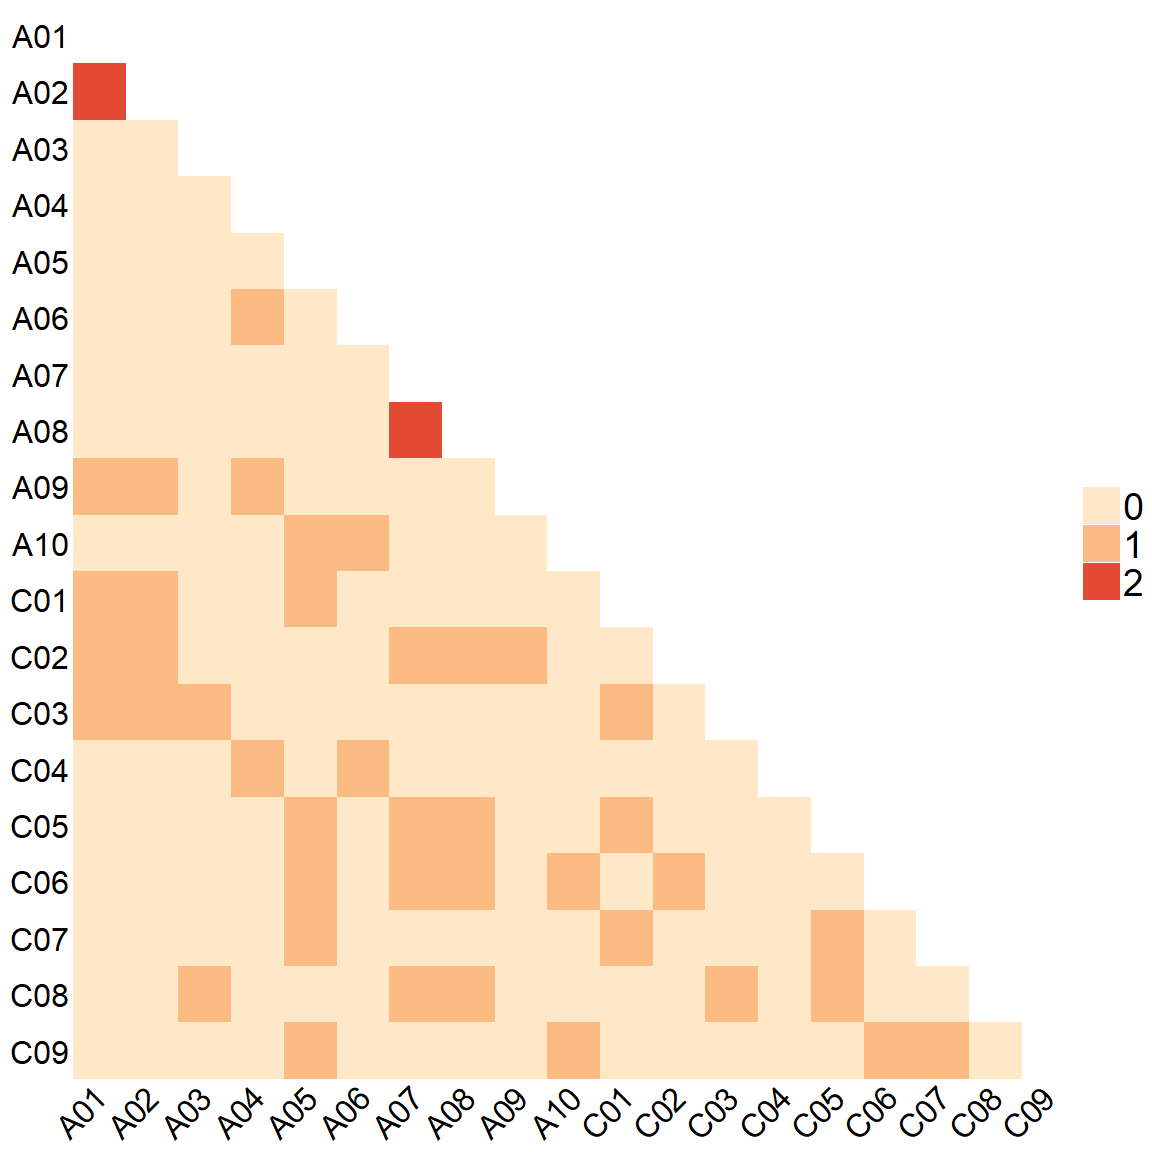
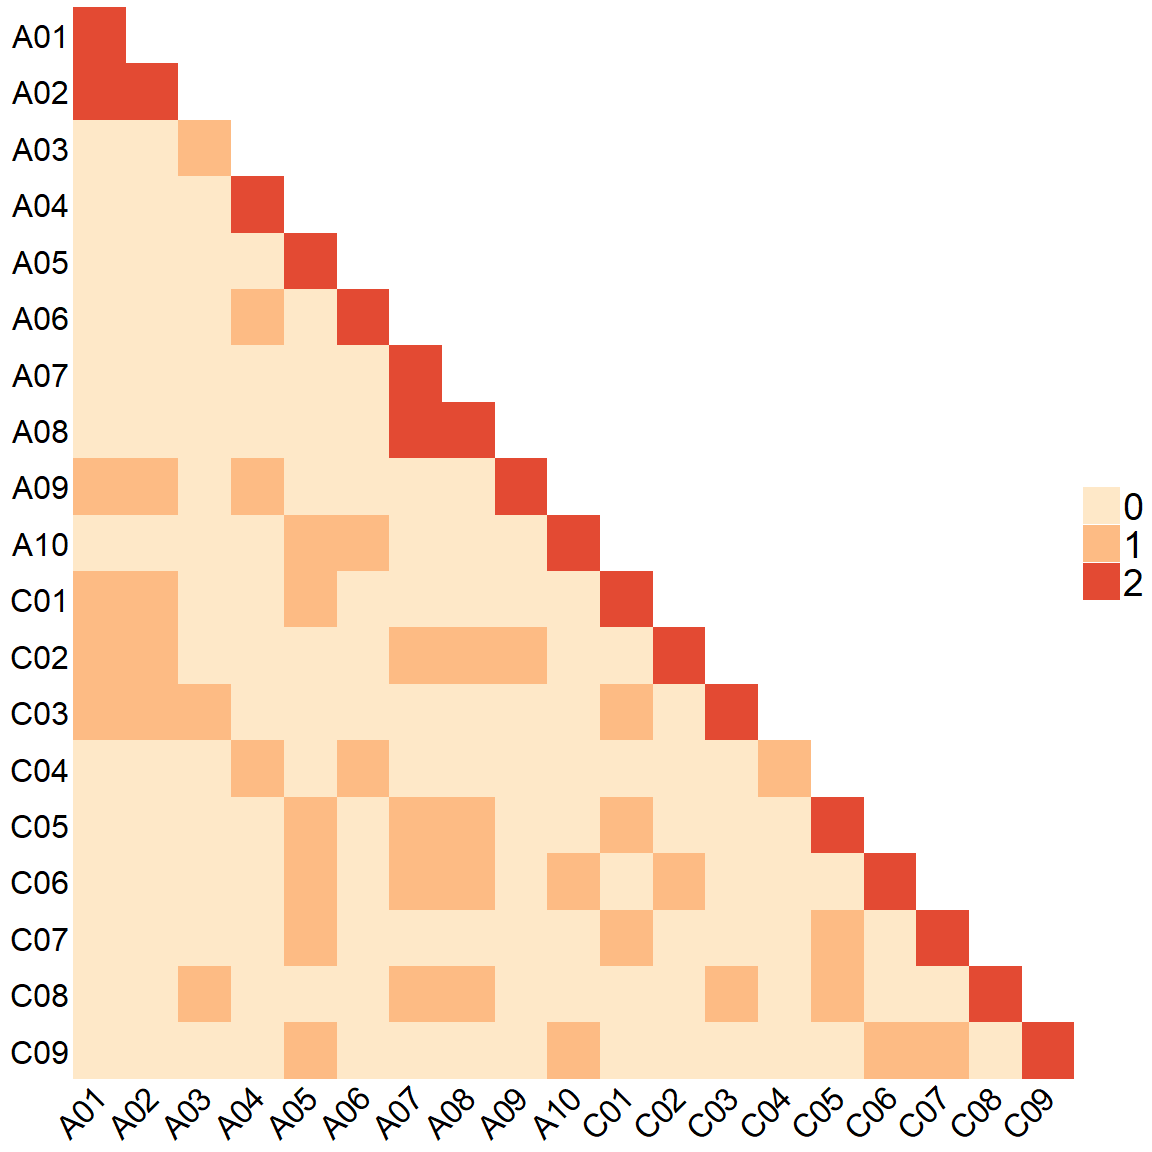
Updated analysis for communities

Changed region(s): [[0.0625, 0.0, 0.9375, 0.9375]]

diff --git a/analysis/bnapus16-genomes/Communities.md b/analysis/bnapus16-genomes/Communities.md
@@ -301,7 +301,7 @@ names(pal) <- vals  # map value -> color
 
 # mask lower-triangle including diagonal (NA hides cells)
 mat_mask <- mat
-mat_mask[upper.tri(mat_mask, diag = TRUE)] <- NA
+mat_mask[upper.tri(mat_mask, diag = FALSE)] <- NA
 Heatmap(
   mat_mask,
   col = pal,
